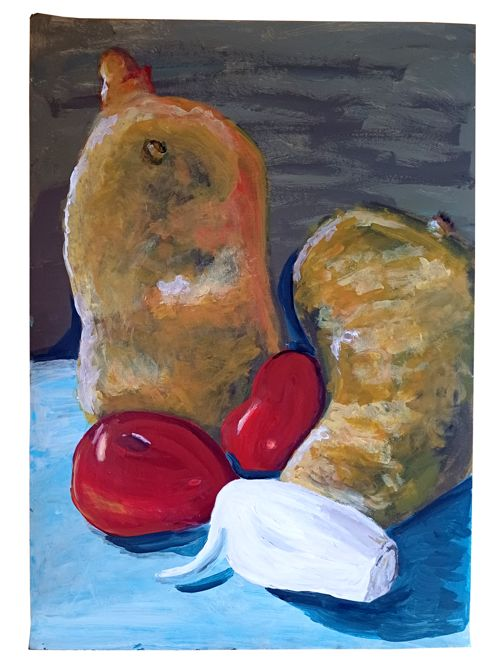
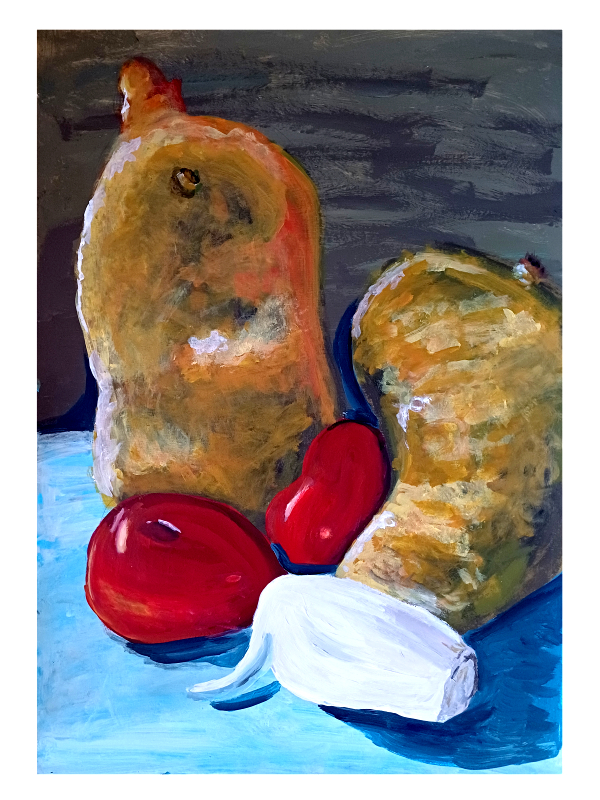
add images

diff --git a/illustration.html b/illustration.html
@@ -37,6 +37,22 @@
             </p>
             <br>
             <h2>
+                Print optimized illustrations
+            </h2>
+            <p>
+                <a style= "background-color: rgb(52, 60, 90);"href="https://assets.clip-studio.com/en-us/detail?id=2101489">Texture Brushes</a>
+                <a style= "background-color: rgb(52, 60, 90);"href="https://assets.clip-studio.com/en-us/detail?id=1835931">Tone Brushes</a>
+                <a style= "background-color: rgb(52, 60, 90);"href="https://assets.clip-studio.com/en-us/detail?id=1907088">Painting Brush</a>
+            </p>
+            <br>
+            <img class="imagebig" src="./images/comparisonhand.jpg" alt="Image of a hand">
+            <br>
+            <img class="imagebig" src="./images/comparisonpumpkin.jpg" alt="Image of a pumpkin">
+            <br>
+            <p>
+                Digital paintings optimized for printing.
+            </p>
+            <h2>
                 Demon illustrations
             </h2>
             <p>
@@ -49,8 +65,10 @@
             <img class="imagesmaller" src="./images/teeth.png" alt="Image of a demon">
             <img class="imagesmaller" src="./images/horror.jpg" alt="Image of a demon">
             <img class="imagesmaller" src="./images/pain.png" alt="Image of a demon">
+            <br>
             <img class="imagesmaller" src="./images/tired.png" alt="Image of a demon">
-            <img class="imagesmaller" src="./images/creepy.png" alt="Image of a demon">
+            <img class="imagesmaller" src="./images/medicine2.png" alt="Image of a demon">
+            <img class="image" src="./images/creepy.png" alt="Image of a demon">
             <br>
             <p>
                 Digital paintings of demons in everyday situations depicted in varying artstyles. For some of them I painted over/utilised photo references I took.
@@ -61,11 +79,10 @@
             </h2>
             <br>
             <img class="imagesmaller" src="./images/potatotomato.jpg" alt="Painting of vegetables">
-            <img class="imagesmaller" src="./images/ink01.jpg" alt="Painting with ink">
             <img class="imagesmaller" src="./images/berries.jpg" alt="Drawing of berries">
             <img class="imagesmaller" src="./images/potato.jpg" alt="Drawing of potatoes">
             <img class="imagesmaller" src="./images/orange.jpg" alt="Drawing of an orange and a pumpkin">
-            <img class="imagesmaller" src="./images/chain.jpg" alt="Drawing of a chain">
+
         </div>
     </div>
 </body>

diff --git a/style.css b/style.css
@@ -1,3 +1,4 @@
+
 *{
     margin: 0;
     margin-bottom: 0.5vw;
@@ -47,7 +48,7 @@ h2{
 }
 .buttonside {
     width: fit-content;
-    height: 5vh;
+    height: 10%;
     color:rgb(232, 232, 237);
     margin-top: 0.5vw;
     z-index:201;
@@ -55,7 +56,6 @@ h2{
 }
 .buttonsidebottom {
     font-family: boldfont;
-    width: fit-content;
     color:rgb(232, 232, 237);
     margin-top: 0.5vw;
     margin-left: 0.5vw;
@@ -85,20 +85,24 @@ h2{
     right:1%;
 }
 .portrait {
-    width: 35%;
-    height: 35%;
-    width:30vw;
+    width: 23%;
+    height: auto;
     float:left; 
     margin-right:2vw;
-    
+    margin-bottom:1vw;
 }
 .portraittext{
-    margin-left:30vw;
-    margin-right:5vw
+    margin-bottom: 10%;
+    margin-left:auto;
+    margin-right:auto;
 }
 .image {
     width: 40%;
-    height: 40%;
+    height: auto;
+}
+.imagebig {
+    width: 70%;
+    height: auto;
 }
 
 .imagesmaller {
@@ -116,8 +120,12 @@ h2{
     width: 85%;
     height: 100%;
     background-color:rgb(23, 22, 26);
-    margin-top: 0.5vw;
+    margin-top: 5%;
     border: 0.2vw solid rgb(255,255,255);
+}
+
+.overviewheader{
+    margin-top:5vh;
 }
 .sidetext{
     width: 100%;
@@ -139,6 +147,7 @@ h2{
     justify-content:center;
 }
 #Overviewline{
+    margin-top: 1vw;
     padding-left: 1vw;
     margin-left: 1vw;
 }

diff --git a/index.html b/index.html
@@ -63,12 +63,10 @@
                     <br>
                     &nbsp&nbsp&nbsp-A bit of French
                 </p>
-                <br>
-                <br>
             </div>
-            <p>
+            <h2 style="margin-bottom:-3vw; margin-top:2%">
                 Check out some of the art I make:
-            </p>
+            </h2>
             <br>
             <div class="imageoverview">
                 <h2 id="Overviewline">
